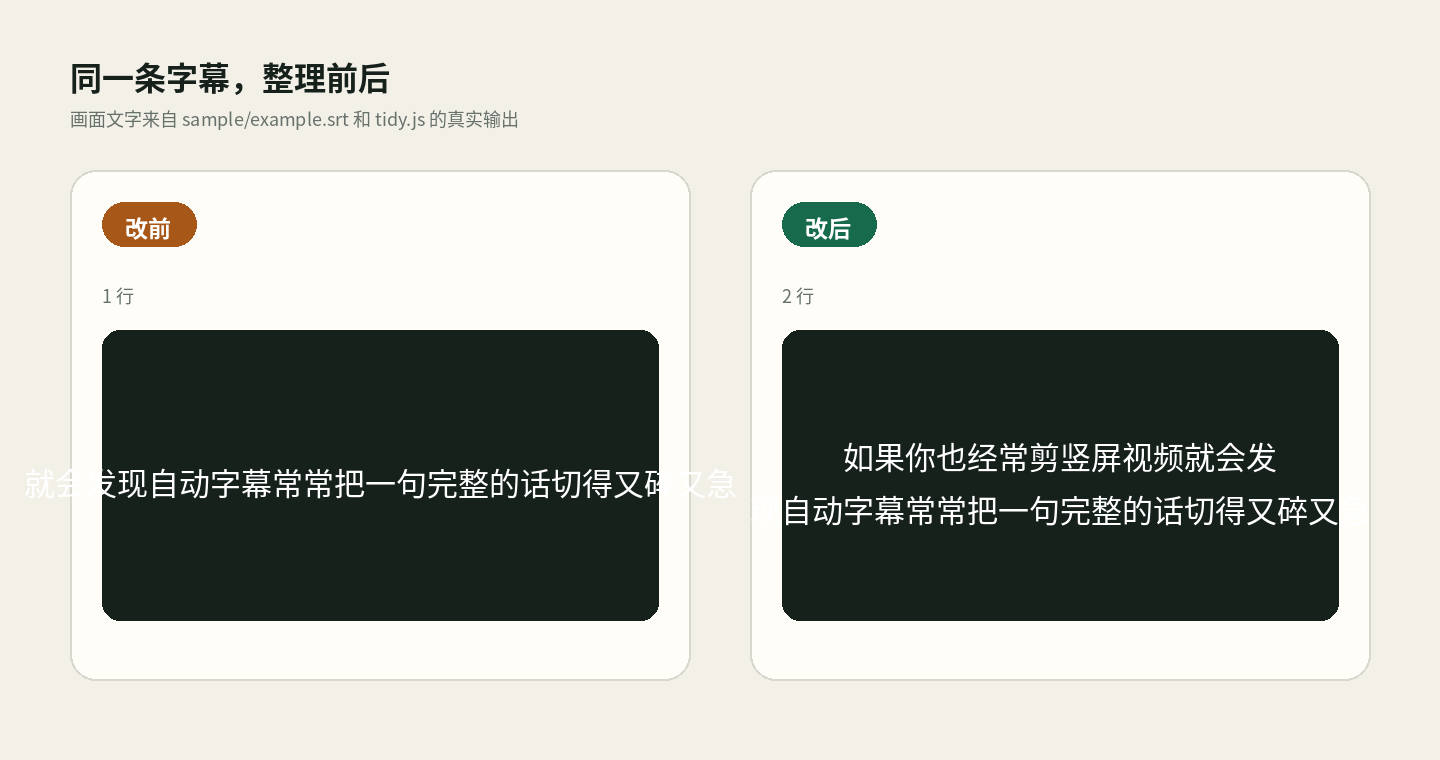
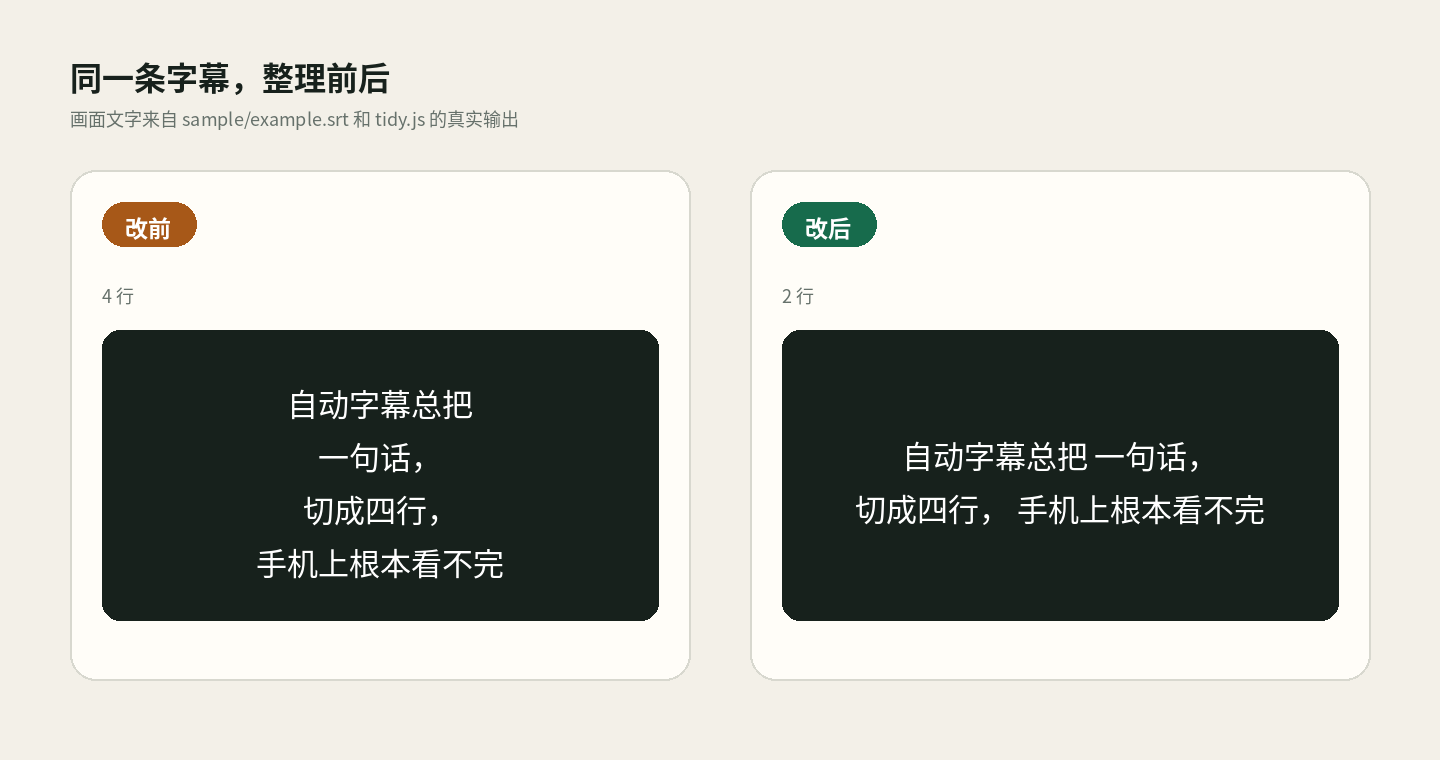
show the four line squeeze clearly

diff --git a/scripts/render-demo.py b/scripts/render-demo.py
@@ -17,8 +17,8 @@ def caption_with(blocks, needle):
 
 before_blocks = (ROOT / "sample/example.srt").read_text(encoding="utf-8").split("\n\n")
 after_blocks = (ROOT / "demo/example.tidy.srt").read_text(encoding="utf-8").split("\n\n")
-before = caption_with(before_blocks, "自动字幕")
-after = caption_with(after_blocks, "自动字幕")
+before = caption_with(before_blocks, "切成四行")
+after = caption_with(after_blocks, "切成四行")
 
 image = Image.new("RGB", (1440, 760), "#f3f0e8")
 draw = ImageDraw.Draw(image)
